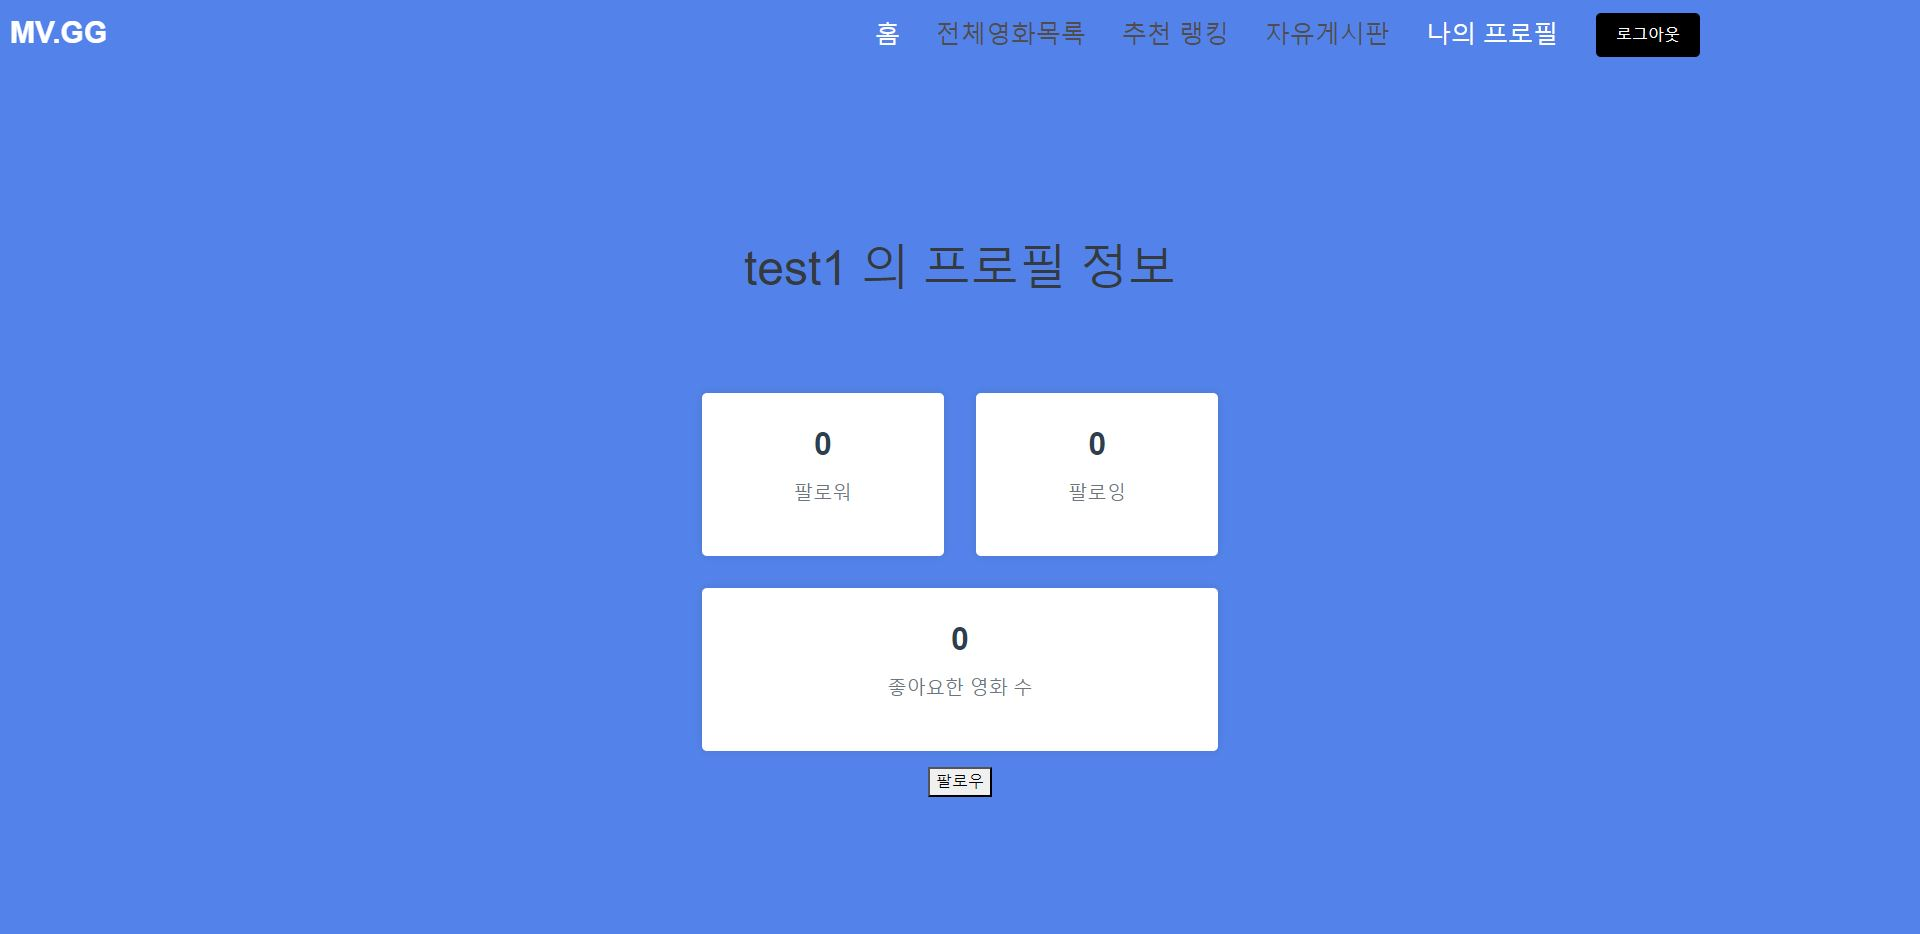
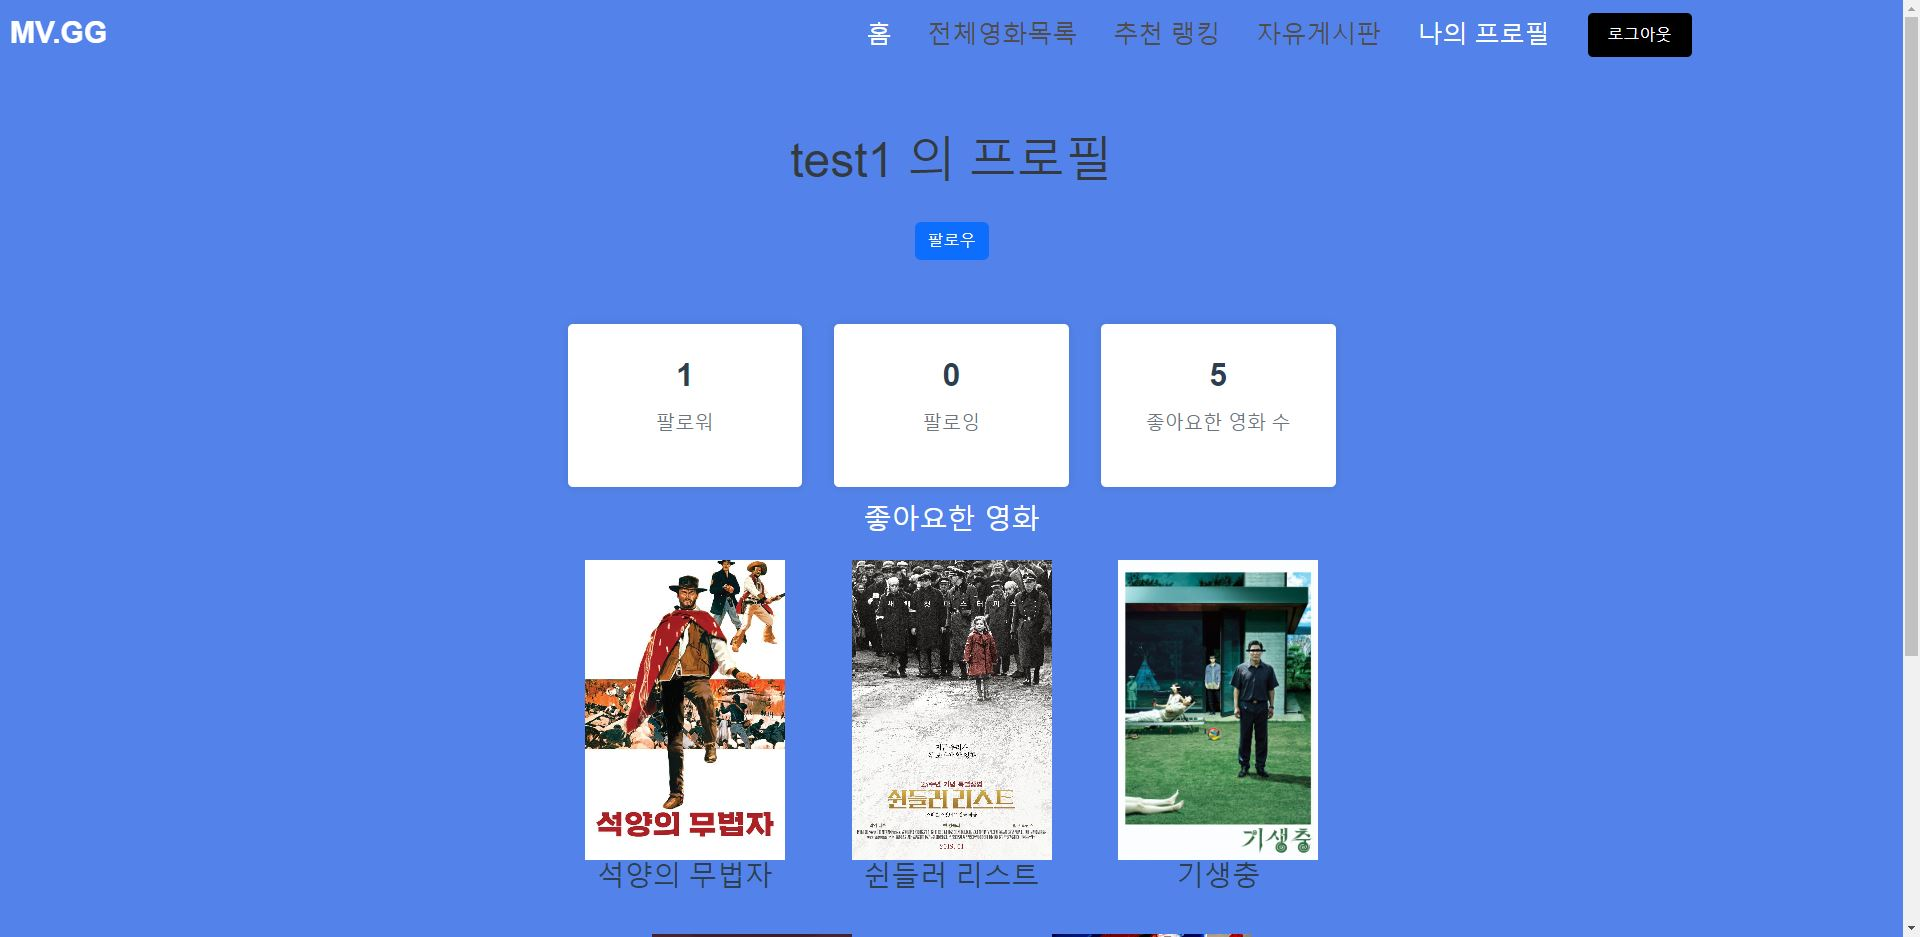
리드미 완성

diff --git a/README.md b/README.md
@@ -192,8 +192,29 @@
 - **프로필 페이지**
   ![프로필](README.assets/profile.JPG)
 
-### 5.
+  - 팔로우 버튼 클릭시 해당 유저 팔로우 가능 (본인을 팔로우시 알림창)
+  - 팔로워와 팔로잉 숫자 제공
+  - 좋아요 버튼을 누른 영화 개수와 해당 영화 목록 출력
 
-### 6.
+### 4.
+
+-**로그인 페이지**
+![로그인](README.assets/login.JPG)
+
+    - 로그인 기능 제공
+    - 회원가입 버튼을 눌러서 회원가입 절차 진행
 
 ## 🌄 느낀점
+
+- 김상진
+- 김병민
+- 서지호
+
+  ```
+  back 과 front 간의 원할한 통신을 위해 url과 초기 erd 키들을 자세하게 설정하는게 중요하다고 느끼는 프로젝트의 연속이었다.
+
+  처음 시작할땐 막막했지만 하다보니 어떻게든 되서 마무리 할 수 있었다.
+
+  전체적인 복습을 통해 어느정도 배운걸 이해할수 있었고
+  2학기도 실력을 많이 높일수 있으면 좋겠다.
+  ```
